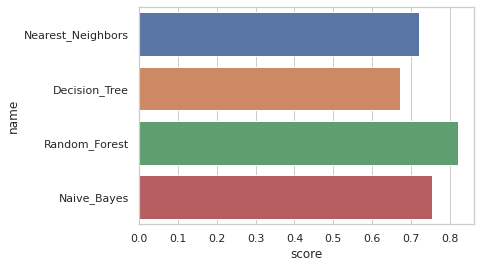
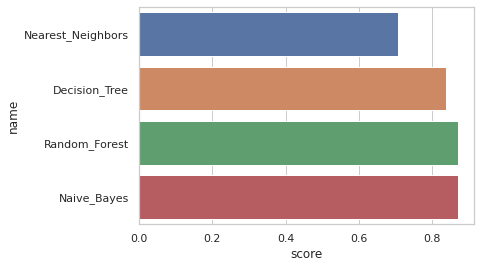
preliminary version

diff --git a/index.html b/index.html
@@ -285,7 +285,7 @@
                       </p>
                   </div>
                   <div class="col-lg-4 text-center order-1 order-lg-2">
-                    <img src="assets/img/departments-2.jpg" alt="" class="img-fluid">
+                    <img src="assets/img/HerramientasClass.jpg" alt="" class="img-fluid">
                   </div>
                 </div>
               </div>
@@ -365,9 +365,9 @@
                     <h3>Metodología</h3>
                   <p>Para la realización de este proyecto se utilizó un cuaderno de Jupyter en Google Colab que fácilmente puedes encontrarlo en el área de <a href="#faq" class="btn-get-started scrollto">anexos y bibliografía</a>. En este cuaderno, se cargaron los datos referentes al estudio del dataset escogido. Posteriormente, se analizaron variables de interés imprimiendo sus gráficas y supervisando su aleatoriedad.
                     <br><br>
-                    Posteriormente, se estudiaron los modelos con ayuda de la librería de sklearn. Primeramente, se generaron los valores de precisión para cada herramienta y posteriormente la impresión de matrices de confusión para observar su desempeño de una mejor manera. 
+                    Posteriormente, se estudiaron los modelos con ayuda de la librería de sklearn. Para ello, se divieron los datos en 80% y 20% para pasar a formar parte del training set y el testing set respectivamente. Primeramente, se generaron los valores de precisión para cada herramienta y posteriormente la impresión de matrices de confusión para observar su desempeño de una mejor manera. 
                     </p>
-                    <p> Los modelos de interés fueron KNeighbor, Decision Tree, Random Forest y Gaussian naive Bayes. </p>
+                    <p> Los modelos de interés fueron KNeighbor, Decision Tree, Random Forest y Gaussian naive Bayes. Todos los clasificadores se trabajaron con los parámetros dados en el club 6 de Clubes de Ciencia México 2021. </p>
                   </div>
                   <div class="col-lg-4 text-center order-1 order-lg-2">
                     <img src="assets/img/Metodología.jpg" alt="" class="img-fluid">
@@ -487,42 +487,8 @@
             </div>
           </div>
 
-          <!-- <div class="col-lg-3 col-md-4">
-            <div class="item-hover">
-              <a href="assets/img/Gráfica1.png" class="galelry-lightbox">
-                <img src="assets/img/Gráfica1.png" alt="" class="img-fluid">
-              </a>
-            </div>
-          </div>
-          <div class="col-lg-3 col-md-4">
-            <div class="item-hover">
-              <a href="assets/img/Gráfica3.png" class="galelry-lightbox">
-                <img src="assets/img/Gráfica3.png" alt="" class="img-fluid">
-              </a>
-            </div>
-          </div>
-          <div class="col-lg-3 col-md-4">
-            <div class="item-hover">
-              <a href="assets/img/Gráfica4.png" class="galelry-lightbox">
-                <img src="assets/img/Gráfica4.png" alt="" class="img-fluid">
-              </a>
-            </div>
-          </div>
-          <div class="col-lg-3 col-md-4">
-            <div class="item-hover">
-              <a href="assets/img/Gráfica5.png" class="galelry-lightbox">
-                <img src="assets/img/Gráfica5.png" alt="" class="img-fluid">
-              </a>
-            </div>
-          </div>
-          <div class="col-lg-3 col-md-4">
-            <div class="item-hover">
-              <a href="assets/img/Gráfica6.png" class="galelry-lightbox">
-                <img src="assets/img/Gráfica6.png" alt="" class="img-fluid">
-              </a>
-            </div>
-          </div> -->
-      <p class="text-center">En estas gráficas podemos observar que la población seleccionada cumple con su cometido al tener valores diferentes sin presentar una tendencia clara.</p>
+    
+      <p class="text-center">Luego de observar el comportamiento de las diferentes variables se generó una gráfica de barras con los valores de precisión para cada clasificador obteniendo de esta manera los siguientes resultados:</p>
         <div class="col-lg-12 col-md-12 text-center align-self-center m-auto">
             <div class="item-hover">
               <a href="assets/img/precision.png" class="galelry-lightbox">
@@ -530,12 +496,20 @@
               </a>
             </div>
           </div>
-      <p class="text-center">En la anterior gráfica de barras, se puede observar que el algoritmo de bosques aleatorios (<b>Random Forest</b>) es el que obtuvo un mejor desempeño. Ahora, se generan las matrices de confusión
-          para observar el trabajo de cada herramienta.</p>     
+      <p class="text-center">En la anterior gráfica de barras, se puede observar que los clasificadores de bosques aleatorios (<b>Random Forest</b>) y <b>Naive Bayes</b> obtuvieron los mejores desempeños.
+        <br> <br>
+        Por último, se generaron las matrices de confusión para cada una de las técnicas obteniendo los siguientes resultados:</p>     
              <div class="col-md-6 col-12">
             <div class="item-hover text-center">
               <a href="assets/img/KNeighbors.png" class="galelry-lightbox">
                 <img src="assets/img/KNeighbors.png" alt="" class="img-fluid">
+              </a>
+            </div>
+          </div>
+          <div class="col-md-6 col-12">
+            <div class="item-hover text-center">
+              <a href="assets/img/DecisionTree.png" class="galelry-lightbox">
+                <img src="assets/img/DecisionTree.png" alt=""class="img-fluid">
               </a>
             </div>
           </div>
@@ -546,13 +520,7 @@
               </a>
             </div>
           </div>
-      <div class="col-md-6 col-12">
-            <div class="item-hover text-center">
-              <a href="assets/img/DecisionTree.png" class="galelry-lightbox">
-                <img src="assets/img/DecisionTree.png" alt=""class="img-fluid">
-              </a>
-            </div>
-          </div>
+ 
              <div class="col-md-6 col-12">
             <div class="item-hover text-center">
               <a href="assets/img/GaussianNB.png" class="galelry-lightbox">
@@ -561,11 +529,45 @@
             </div>
           </div>
         
-        
-        
+          <div class="container">
+            <br> <br>
+            <div class="section-title">
+              <h2>Conclusiones</h2>
+            </div>
+          </div>
+
         </div>
 
       </div>
+      <div class=" container col-md-6 col-122">
+      <div class="card text-center">
+        <div class="card-body">
+          <h5 class="card-title"><b>Python, una herramienta iremplazable</b></h5>
+          <p class="card-text">La computación científica se hace cada vez más visible en jóvenes investigadores. No es por nada que Python ha resaltado de entre tantas herramientas para posicionarse como aquella 
+            que se debería aprender en formación temprana. En este proyecto, con ayuda de Python y Google Colab pudimos generar resultar relevantes para la investigación e incluso generar nuevas dudas desarrollando nuevos talentos y explorando nuevas fronteras. </p>
+        </div>
+      </div>
+    </div>
+    <div class=" container col-md-6 col-12">
+      <div class="card text-center">
+        <div class="card-body ">
+          <h5 class="card-title"><b>Modelos clasificadores</b></h5>
+          <p class="card-text">Los modelos clasificatorios mostraron excelentes resultados a la hora de dividir los datos lo cual nos proporciona nuevas herramientas basadas en machine learning para resolver problemas reales con código conocido. Las matrices de confusión resultaron una buena manera de observar su trabajo y ejemplificar su desempeño de una manera limpia y ordenada.</p>
+        </div>
+      </div>
+    </div>
+  </div>
+
+    <div class="container col-md-6 col-12">
+    <div class="card text-center">
+      <div class="card-body">
+        <h5 class="card-title"><b>Inteligencia Artificial y salud</b></h5>
+        <p class="card-text">El estudio realizado presentan una nueva alternativa a procesos complejos. Se generaron resultados confiables con alto nivel de eficiencia lo que los hace perfectos para
+          problemas con una gran cantidad de datos. Es necesario hoy en día aprender de otras áreas que muchas veces creemos no podrían ser complementarias.
+        </p>
+      </div>
+    </div>
+  </div>
     </section><!-- End Gallery Section -->
 
   
@@ -668,7 +670,7 @@
                 <p>
                   En el siguiente podrás encontrar un cuaderno en Google Colab con el código en Python utilizado en el estudio.
                 </p>
-                    <a href="https://colab.research.google.com/drive/1GaMCbzg4yC8npsPGcacbEr44PTeWgsdN?usp=sharing">Go to Colab</a>
+                    <a href="https://colab.research.google.com/drive/1GnzVhO6mXhYQaG3ecCP8lLoXtezkzGFp?usp=sharing">Go to Colab</a>
               </div>
             </li>
 
@@ -676,15 +678,28 @@
               <i class="bx bx-help-circle icon-help"></i> <a data-bs-toggle="collapse" data-bs-target="#faq-list-2" class="collapsed">Bibliografía<i class="bx bx-chevron-down icon-show"></i><i class="bx bx-chevron-up icon-close"></i></a>
               <div id="faq-list-2" class="collapse" data-bs-parent=".faq-list">
                 <p>
-                 La Inteligencia Artificial Mejorará La Experiencia De Los Pacientes Crónicos. January 31, 2020,  
+                 
+                  Avila-Tomás, J. F., Mayer-Pujadas, M. A., & Quesada-Varela, V. J. (2020)<em>La inteligencia artificial y sus aplicaciones en medicina I: introducción antecedentes a la IA y robótica. </em>  From
+                  <a href="https://www.elsevier.es/es-revista-atencion-primaria-27-avance-resumen-la-inteligencia-artificial-sus-aplicaciones-S0212656720301451">Link</a> 
+
+                  Center for Disease Control and Prevention <em>About Heart Disease</em>. (2020). From
+                  <a href="https://www.cdc.gov/heartdisease/about.htm">Link</a> 
+                  Martinez Heras, J. (2020). <em>¿Clasificación o Regresión?</em> IArtificail.net. From 
+                  <a href="https://www.iartificial.net/clasificacion-o-regresion/#Aclaraciones">Link</a>
+                <em>La Inteligencia Artificial Mejorará La Experiencia De Los Pacientes Crónicos</em>(2020). From 
                   <a href="https://www.adherencia-cronicidad-pacientes.com/cronicidad/la-inteligencia-artificial-mejorara-la-experiencia-de-los-pacientes-cronicos/">Link</a>
-                  
-                SISON, G. (2020, May 09). This is how heart disease impacts Americans. Retrieved May 30, 2020, from 
-                  https://www.singlecare.com/blog/news/heart-disease-statistics/
+                  Santa María E. (2018) em>BISEPRO: inteligencia artificial para agilizar el diagnóstico de la sepsis. </em>  From
+                  <a href="https://isanidad.com/126725/bisepro-inteligencia-artificial-para-agilizar-el-diagnostico-de-la-sepsis/">Link</a> 
+                  Sierra. C(2019)<em>El impacto de la inteligencia artificial en nuestra sociedad. Retos y oportunidades</em>. Consejo Superior de Investigaciones Científicas. From
+                    <a href="https://www.cdc.gov/heartdisease/about.htm">Link</a> 
+                  <em>SISON, G. (2020). This is how heart disease impacts Americans</em> From 
+                  <a href="https://www.singlecare.com/blog/news/heart-disease-statistics/">Link</a>
+                  Redacción España (2019) <em>Origen del concepto de Inteligencia Artificial.</em> From
+                  <a href="https://agenciab12.mx/noticia/origen-concepto-inteligencia-artificial">Link</a>                  
+                  <em>Understand Your Risks to Prevent a Heart Attack.</em> (2016). From
                 <a href="https://www.singlecare.com/blog/news/heart-disease-statistics/">Link</a>
-                 About Heart Disease. (2020, March 20). Retrieved May 30, 2020, from https://www.cdc.gov/heartdisease/about.htm
-                  <a href="https://www.cdc.gov/heartdisease/about.htm">Link</a>
-                Understand Your Risks to Prevent a Heart Attack. (2016). Retrieved May 30, 2020, from 
+                 
+                Understand Your Risks to Prevent a Heart Attack. (2016). Retrieved May 30, 2020. From 
                   
                     <a href="https://www.heart.org/en/health-topics/heart-attack/understand-your-risks-to-prevent-a-heart-attack">Link</a>
                 </p>

diff --git a/assets/css/style.css b/assets/css/style.css
@@ -467,7 +467,7 @@ h1, h2, h3, h4, h5, h6 {
   font-weight: 700;
   line-height: 56px;
   text-transform: uppercase;
-  color: #1977cc;
+  color: #fff;
 }
 
 #hero h2 {
@@ -1756,3 +1756,4 @@ section {
 .item-hover:hover{
   transform: scale(1.06);
 }
+
